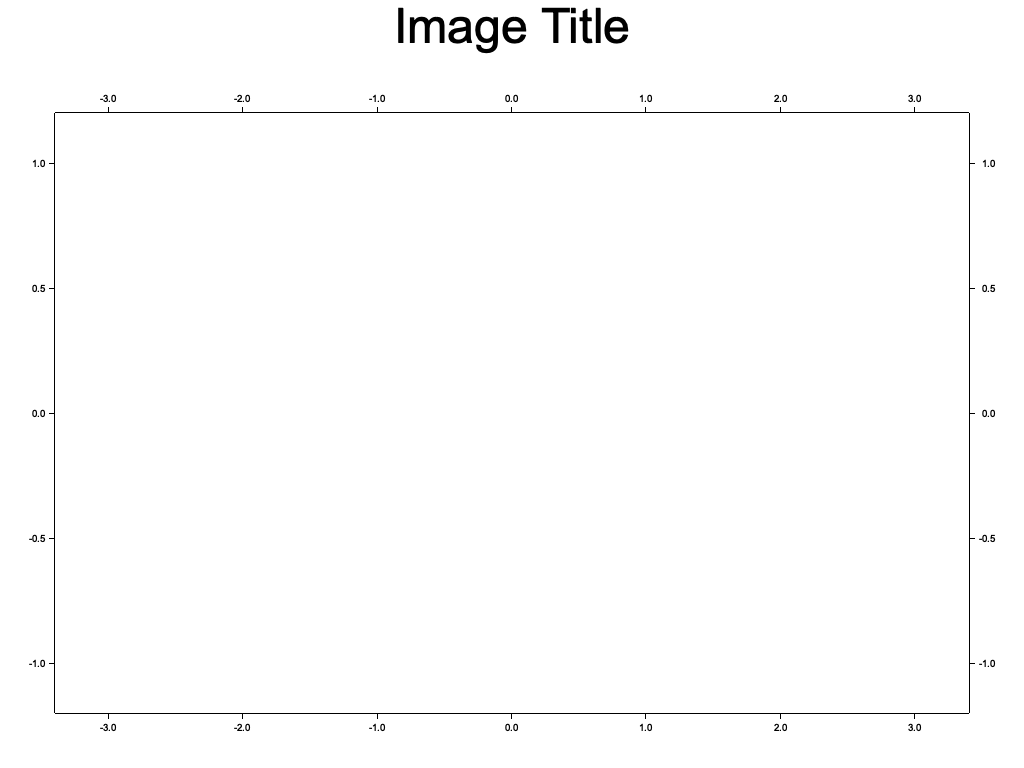
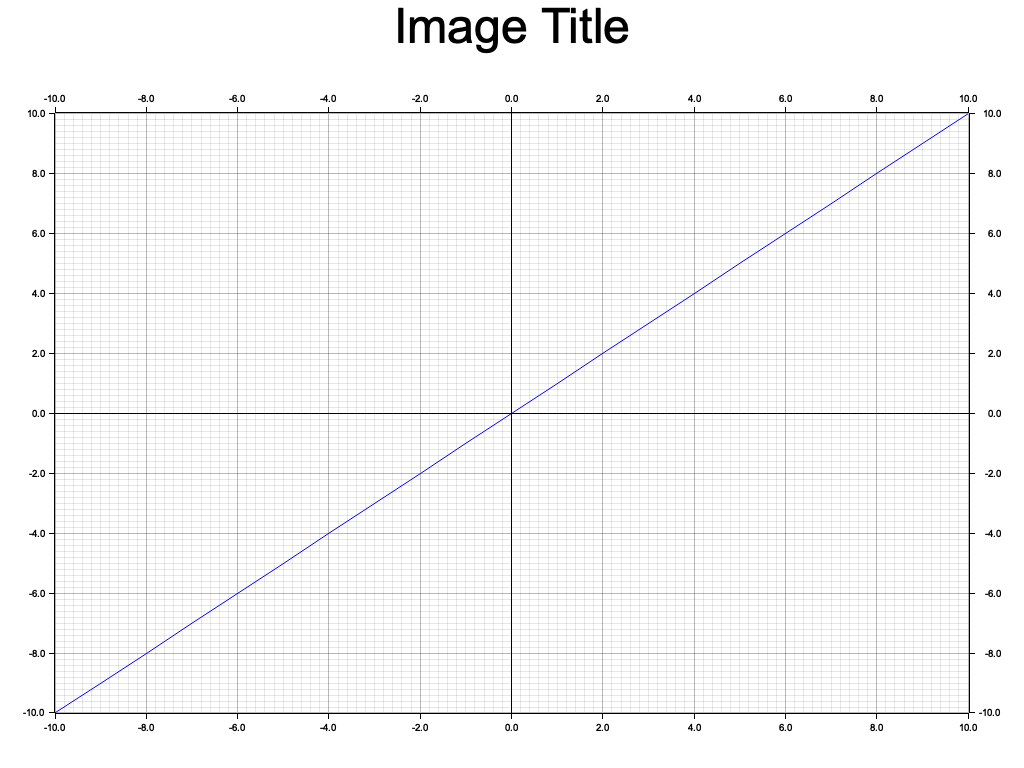
feat:linearfunction

Changed region(s): [[0.0312, 0.125, 0.9688, 0.9688], [0.9375, 0.125, 0.9688, 0.1562], [0.0312, 0.125, 0.0625, 0.1562]]

diff --git a/src/chart/chart04.rs b/src/chart/chart04.rs
@@ -10,11 +10,41 @@ pub fn main(){
     let mut cc = ChartBuilder::on(&root_area)
     .margin(5)
     .set_all_label_area_size(50)
-    .build_cartesian_2d(-3.4f32..3.4, -1.2f32..1.2f32).unwrap();
+    .build_cartesian_2d(-10.0f32..10.0, -10.0f32..10.0).unwrap();
 
     cc.configure_mesh()
-    .disable_mesh()
+   
     .x_label_formatter(&|v| format!("{:.1}", v))
     .y_label_formatter(&|v| format!("{:.1}", v))
     .draw().unwrap();
+// cc.draw_series(PointSeries::of_element(
+//     (-3.0f32..2.1f32).step(1.0).values().map(|x| (x, x)),
+//     5,
+//     ShapeStyle::from(&RED).filled(),
+//     &|coord, size, style| {
+//         EmptyElement::at(coord)
+//             + Circle::new((0, 0), size, style)
+//             + Text::new(format!("{:?}", coord), (0, 15), ("sans-serif", 15))
+//     },
+// )).unwrap();
+cc.draw_series(LineSeries::new(
+    (-10f32..11f32).step(1.0).values().map(|x| (x, x)),
+    &BLUE,
+))
+.unwrap();
+cc
+.draw_series(LineSeries::new(
+    vec![(0.0, -10f32), (0.0, 10.0f32)],
+    &BLACK,
+))
+.unwrap();
+
+// Draw horizontal line (X-axis)
+cc
+.draw_series(LineSeries::new(
+    vec![(-10.0, 0.0), (10.0, 0.0)],
+    &BLACK,
+))
+.unwrap();
+     
 }

diff --git a/src/chart/linear_function.rs b/src/chart/linear_function.rs
@@ -1,0 +1,41 @@
+use plotters::prelude::*;
+
+
+const OUT_FILE_NAME: &str = "./src/chart/liner_function.png";
+pub fn main(){
+    let root_area = BitMapBackend::new(OUT_FILE_NAME, (824, 768)).into_drawing_area();
+    root_area.fill(&WHITE).unwrap();//배경
+    let root_area: DrawingArea<BitMapBackend<'_>, plotters::coord::Shift> = root_area.titled("LinearFunction", ("sans-serif", 60)).unwrap();
+    let x_axis = (-3.4f32..3.4).step(0.1);
+    let mut linear_function = ChartBuilder::on(&root_area)
+    .margin(5)
+    .set_all_label_area_size(50)
+    .build_cartesian_2d(-8f32..8f32, -8f32..8f32).unwrap();
+
+    linear_function.configure_mesh()
+   
+    .x_label_formatter(&|v| format!("{:.1}", v))
+    .y_label_formatter(&|v| format!("{:.1}", v))
+    .draw().unwrap();
+
+linear_function.draw_series(LineSeries::new(
+    (-8f32..11f32).step(1.0).values().map(|x| (x, x)),
+    &BLUE,
+))
+.unwrap();
+linear_function
+.draw_series(LineSeries::new(
+    vec![(0f32, -8f32), (0f32, 8f32)],
+    &BLACK,
+))
+.unwrap();
+
+// Draw horizontal line (X-axis)
+linear_function
+.draw_series(LineSeries::new(
+    vec![(-8f32, 0f32), (8f32, 0f32)],
+    &BLACK,
+))
+.unwrap();
+     
+}

diff --git a/src/main.rs b/src/main.rs
@@ -9,7 +9,8 @@ fn main(){
 // chart::chart02::main();
 // chart::chart02::main();
 // chart::chart03::main();
-chart::chart04::main();
+// chart::chart04::main();
+chart::linear_function::main();
 /*=========chart======== */
 /*=========fish======== */
 // fish::fish01::main();

diff --git a/src/chart/mod.rs b/src/chart/mod.rs
@@ -2,3 +2,8 @@ pub mod chart01;
 pub mod chart02;
 pub mod chart03;
 pub mod chart04;
+
+/*===========active_function============ */
+
+pub mod linear_function;
+/*===========active_function============ */
